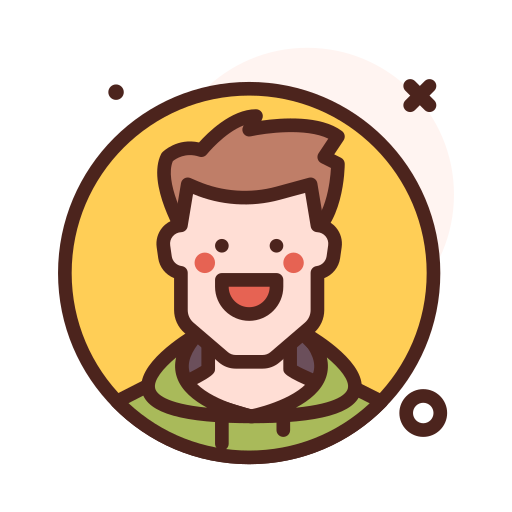
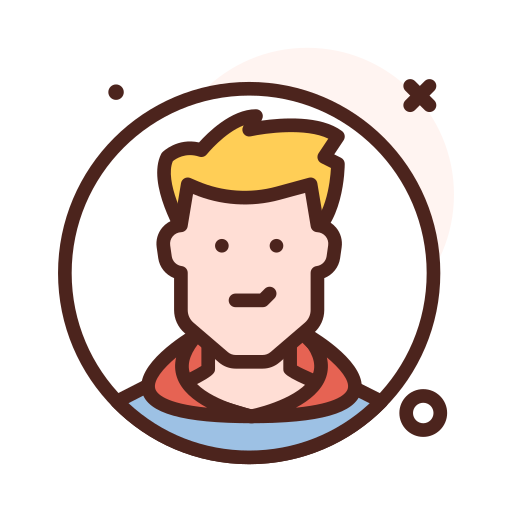
update passport

Changed region(s): [[0.125, 0.1875, 0.8438, 0.9062], [0.375, 0.4688, 0.5938, 0.625]]

diff --git a/src/App.css b/src/App.css
@@ -34,13 +34,13 @@ body {
 
 .front h1 {
   font-size: 15px;
-  font-weight: bolder;
+  font-weight: 600;
 }
 
 .front h2 {
   font-size: 15px;
   width: 90%;
-  font-weight: bolder;
+  font-weight: 600;
   margin-bottom: 5px;
   margin-top: 10px;
   padding-top: 10px;
@@ -55,11 +55,7 @@ body {
 .front,
 .back,
 .page1,
-.page2,
-.page3,
-.page4,
-.page5,
-.page6 {
+.page2{
   transform-style: preserve-3d;
   position: absolute;
   width: 200px;
@@ -77,13 +73,9 @@ body {
 }
 
 .front,
-.page1,
-.page3,
-.page5,
 .back,
-.page2,
-.page4,
-.page6 {
+.page1,
+.page2 {
   border-bottom-right-radius: 0.5rem;
   border-top-right-radius: 0.5rem;
 }
@@ -131,30 +123,9 @@ body {
   opacity: 0.1;
 }
 
-.page3 {
-  background: #f5f5f5;
-}
-
-.page4 {
-  background: #f5f5f5;
-}
-
-.page5 {
-  background: #fafafa;
-}
-
-.page6 {
-  background: #fdfdfd;
-  overflow: hidden;
-}
-
 .open-book {
   rotate: 90deg;
-<<<<<<< HEAD
   transition-duration: 1250ms;
-=======
-  transition-duration: 1000ms;
->>>>>>> c5c56342124dc834458faa4fd8d2da16b9f73edd
 }
 
 .open-front {
@@ -172,46 +143,18 @@ body {
   box-shadow: 0 1em 3em 0 rgba(0, 0, 0, 0.2);
 }
 
-.open-page3 {
-  transform: rotateY(-140deg) scale(1.1);
-  box-shadow: 0 1em 3em 0 rgba(0, 0, 0, 0.2);
-}
-
-.open-page4 {
-  transform: rotateY(-40deg) scale(1.1);
-  box-shadow: 0 1em 3em 0 rgba(0, 0, 0, 0.2);
-}
-
-.open-page5 {
-  transform: rotateY(-130deg) scale(1.1);
-  box-shadow: 0 1em 3em 0 rgba(0, 0, 0, 0.2);
-}
-
-.open-page6 {
-  transform: rotateY(-50deg) scale(1.1);
-  box-shadow: 0 1em 3em 0 rgba(0, 0, 0, 0.2);
-}
-
 .open-back {
   transform: rotateY(-20deg) scale(1.1);
 }
 
 .closed-book {
   rotate: 0deg;
-<<<<<<< HEAD
   transition-duration: 1250ms;
-=======
-  transition-duration: 1000ms;
->>>>>>> c5c56342124dc834458faa4fd8d2da16b9f73edd
 }
 
 .closed-front,
 .closed-page1,
 .closed-page2,
-.closed-page3,
-.closed-page4,
-.closed-page5,
-.closed-page6,
 .closed-back {
   transform: rotateY(0deg) scale(1);
 }
@@ -220,11 +163,7 @@ body {
 .page2-content {
   position: absolute;
   width: 140%;
-<<<<<<< HEAD
   height: 90%;
-=======
-  height: 93%;
->>>>>>> c5c56342124dc834458faa4fd8d2da16b9f73edd
   transform: rotate(-90deg);
   transform-origin: center;
   color: #21324b;
@@ -240,6 +179,7 @@ body {
   font-family: 'Dot Matrix';
   margin-left: -165px;
 }
+
 .page1-content img{
   margin-top: 45%;
   transform: rotate(90deg);
@@ -248,7 +188,7 @@ body {
 }
 
 .page2-content img {
-  border-radius: 10px;
+  margin-top: 25px;
 }
 
 .page2-container {
@@ -257,10 +197,6 @@ body {
   align-items: flex-start;
   margin-top: 5px;
   gap: 5px;
-}
-
-.page2-container img {
- margin-top: 10%;
 }
 
 .page2-content h1 {
@@ -284,7 +220,7 @@ body {
   width: 35%;
 
 }
-
+z z
 .input-end {
   display: flex;
   align-items: flex-end;
@@ -293,10 +229,6 @@ body {
 
 .input label {
   font-size: 7px;
-<<<<<<< HEAD
-=======
-  font-style: italic;
->>>>>>> c5c56342124dc834458faa4fd8d2da16b9f73edd
   font-family: Arial, Helvetica, sans-serif;
 }
 
@@ -314,7 +246,6 @@ body {
 }
 
 .signature {
-<<<<<<< HEAD
   font-family: 'Michigan';
   font-size: 20px;
   color: #000000;
@@ -345,15 +276,9 @@ body {
 }
 
 .logo {
-  width: 0px;
   z-index: 1;
-=======
-  font-family: 'Great Vibes', cursive;
-  font-size: 35px;
-  color: #000000;
-  text-decoration: underline;
-  transform: rotate(90deg) scaleX(-1);
-  margin-left: -90%;
-  margin-right: -20%;
->>>>>>> c5c56342124dc834458faa4fd8d2da16b9f73edd
+  display: flex;
+  flex-direction: column;
+  align-items: center;
+  justify-content: center;
 }

diff --git a/src/components/Passport.tsx b/src/components/Passport.tsx
@@ -1,9 +1,7 @@
 import React, { useState } from "react";
 import brasao from "../assets/brasaorprp.png";
-<<<<<<< HEAD
 import avatarf from "../assets/avatar-f.png";
 import avatarm from "../assets/avatar-m.png";
-import logo from "../assets/logo-rprp.png";
 import { TbEPassport } from "react-icons/tb";
 import { IPassportData } from "../types";
 
@@ -11,35 +9,12 @@ interface IPassportProps {
   data: IPassportData;
 }
 
-=======
-import avatar from "../assets/default-avatar.png";
-import { TbEPassport } from "react-icons/tb";
-import { IPassportData } from "../types";
-
-
-interface IPassportProps {
-  data: IPassportData;
-}
-
->>>>>>> c5c56342124dc834458faa4fd8d2da16b9f73edd
 const Passport: React.FC<IPassportProps> = ({ data }) => {
   const [isOpen, setIsOpen] = useState(false);
   const handleClick = () => {
     setIsOpen(!isOpen);
   };
 
-<<<<<<< HEAD
-=======
-  // const Signature: React.FC<IPassportProps> = ({ data }) => {
-  //   return (
-  //     <div className="signature">
-  //       {data.firstname} {data.lastname}
-  //     </div>
-  //   );
-  // };
-  
-
->>>>>>> c5c56342124dc834458faa4fd8d2da16b9f73edd
   return (
     <>
       <div
@@ -51,14 +26,7 @@ const Passport: React.FC<IPassportProps> = ({ data }) => {
           <div className="page2-content">
             <h1>INTERNATIONAL PASSPORT</h1>
             <div className="page2-container">
-<<<<<<< HEAD
-              <div className="logo">
-                <img src={logo} width={80} />
-              </div>
-              <img src={data.gender === 0 ? avatarm : avatarf} width={100} />
-=======
-              <img src={avatar} width={100} />
->>>>>>> c5c56342124dc834458faa4fd8d2da16b9f73edd
+              <img src={data.gender === 0 ? avatarf : avatarm} width={100} />
               <div className="input-container">
                 <div className="input-end">
                   <div className="input">
@@ -98,7 +66,6 @@ const Passport: React.FC<IPassportProps> = ({ data }) => {
           <div className="page1-content">
             <h1>{data.citizenid}</h1>
           </div>
-<<<<<<< HEAD
           <div className="signature-container">
             <div className="signature">
               {data.firstname} {data.lastname}
@@ -106,9 +73,6 @@ const Passport: React.FC<IPassportProps> = ({ data }) => {
             <div className="signature-line"></div>
             <div className="signature-text">Signature of Bearer</div>
           </div>
-=======
-          <div className="signature">{data.firstname} {data.lastname}</div>
->>>>>>> c5c56342124dc834458faa4fd8d2da16b9f73edd
         </div>
         <div className={`front ${isOpen ? "open-front" : "closed-front"}`}>
           <h1>Passport</h1>

diff --git a/src/index.css b/src/index.css
@@ -5,28 +5,15 @@
   
   @font-face {
     font-family: 'OCR-A';
-<<<<<<< HEAD
     src: url('./assets/OCR-A.ttf') format('truetype');
   }
 
-    
   @font-face {
     font-family: 'Michigan';
     src: url('./assets/Michigan.ttf') format('truetype');
   }
-
-
-
+  
   body {
-    font-family: 'Dot Matrix', 'OCR-A BT', 'Michigan', sans-serif;
-=======
-    font-style: normal;
-    font-weight: normal;
-    src: url('./assets/OCR-A.ttf') format('truetype');
-  }
-
-  body {
-    font-family: 'Dot Matrix', 'OCR-A BT', sans-serif;
->>>>>>> c5c56342124dc834458faa4fd8d2da16b9f73edd
+  font-family: 'Dot Matrix', 'OCR-A BT', 'Michigan', sans-serif;
   }
   

diff --git a/src/App.tsx b/src/App.tsx
@@ -10,15 +10,9 @@ debugData<boolean | IPassportData>([
   {
     action: "rp_passport:setPassportData",
     data: {
-<<<<<<< HEAD
       citizenid: "C12324",
       firstname: "Florisvaldo",
       lastname: "Shaolin",
-=======
-      citizenid: "C1231",
-      firstname: "Kauan",
-      lastname: "Felipe",
->>>>>>> c5c56342124dc834458faa4fd8d2da16b9f73edd
       birthdate: 631159200000,
       nationality: "Brasileiro",
       gender: 0,
